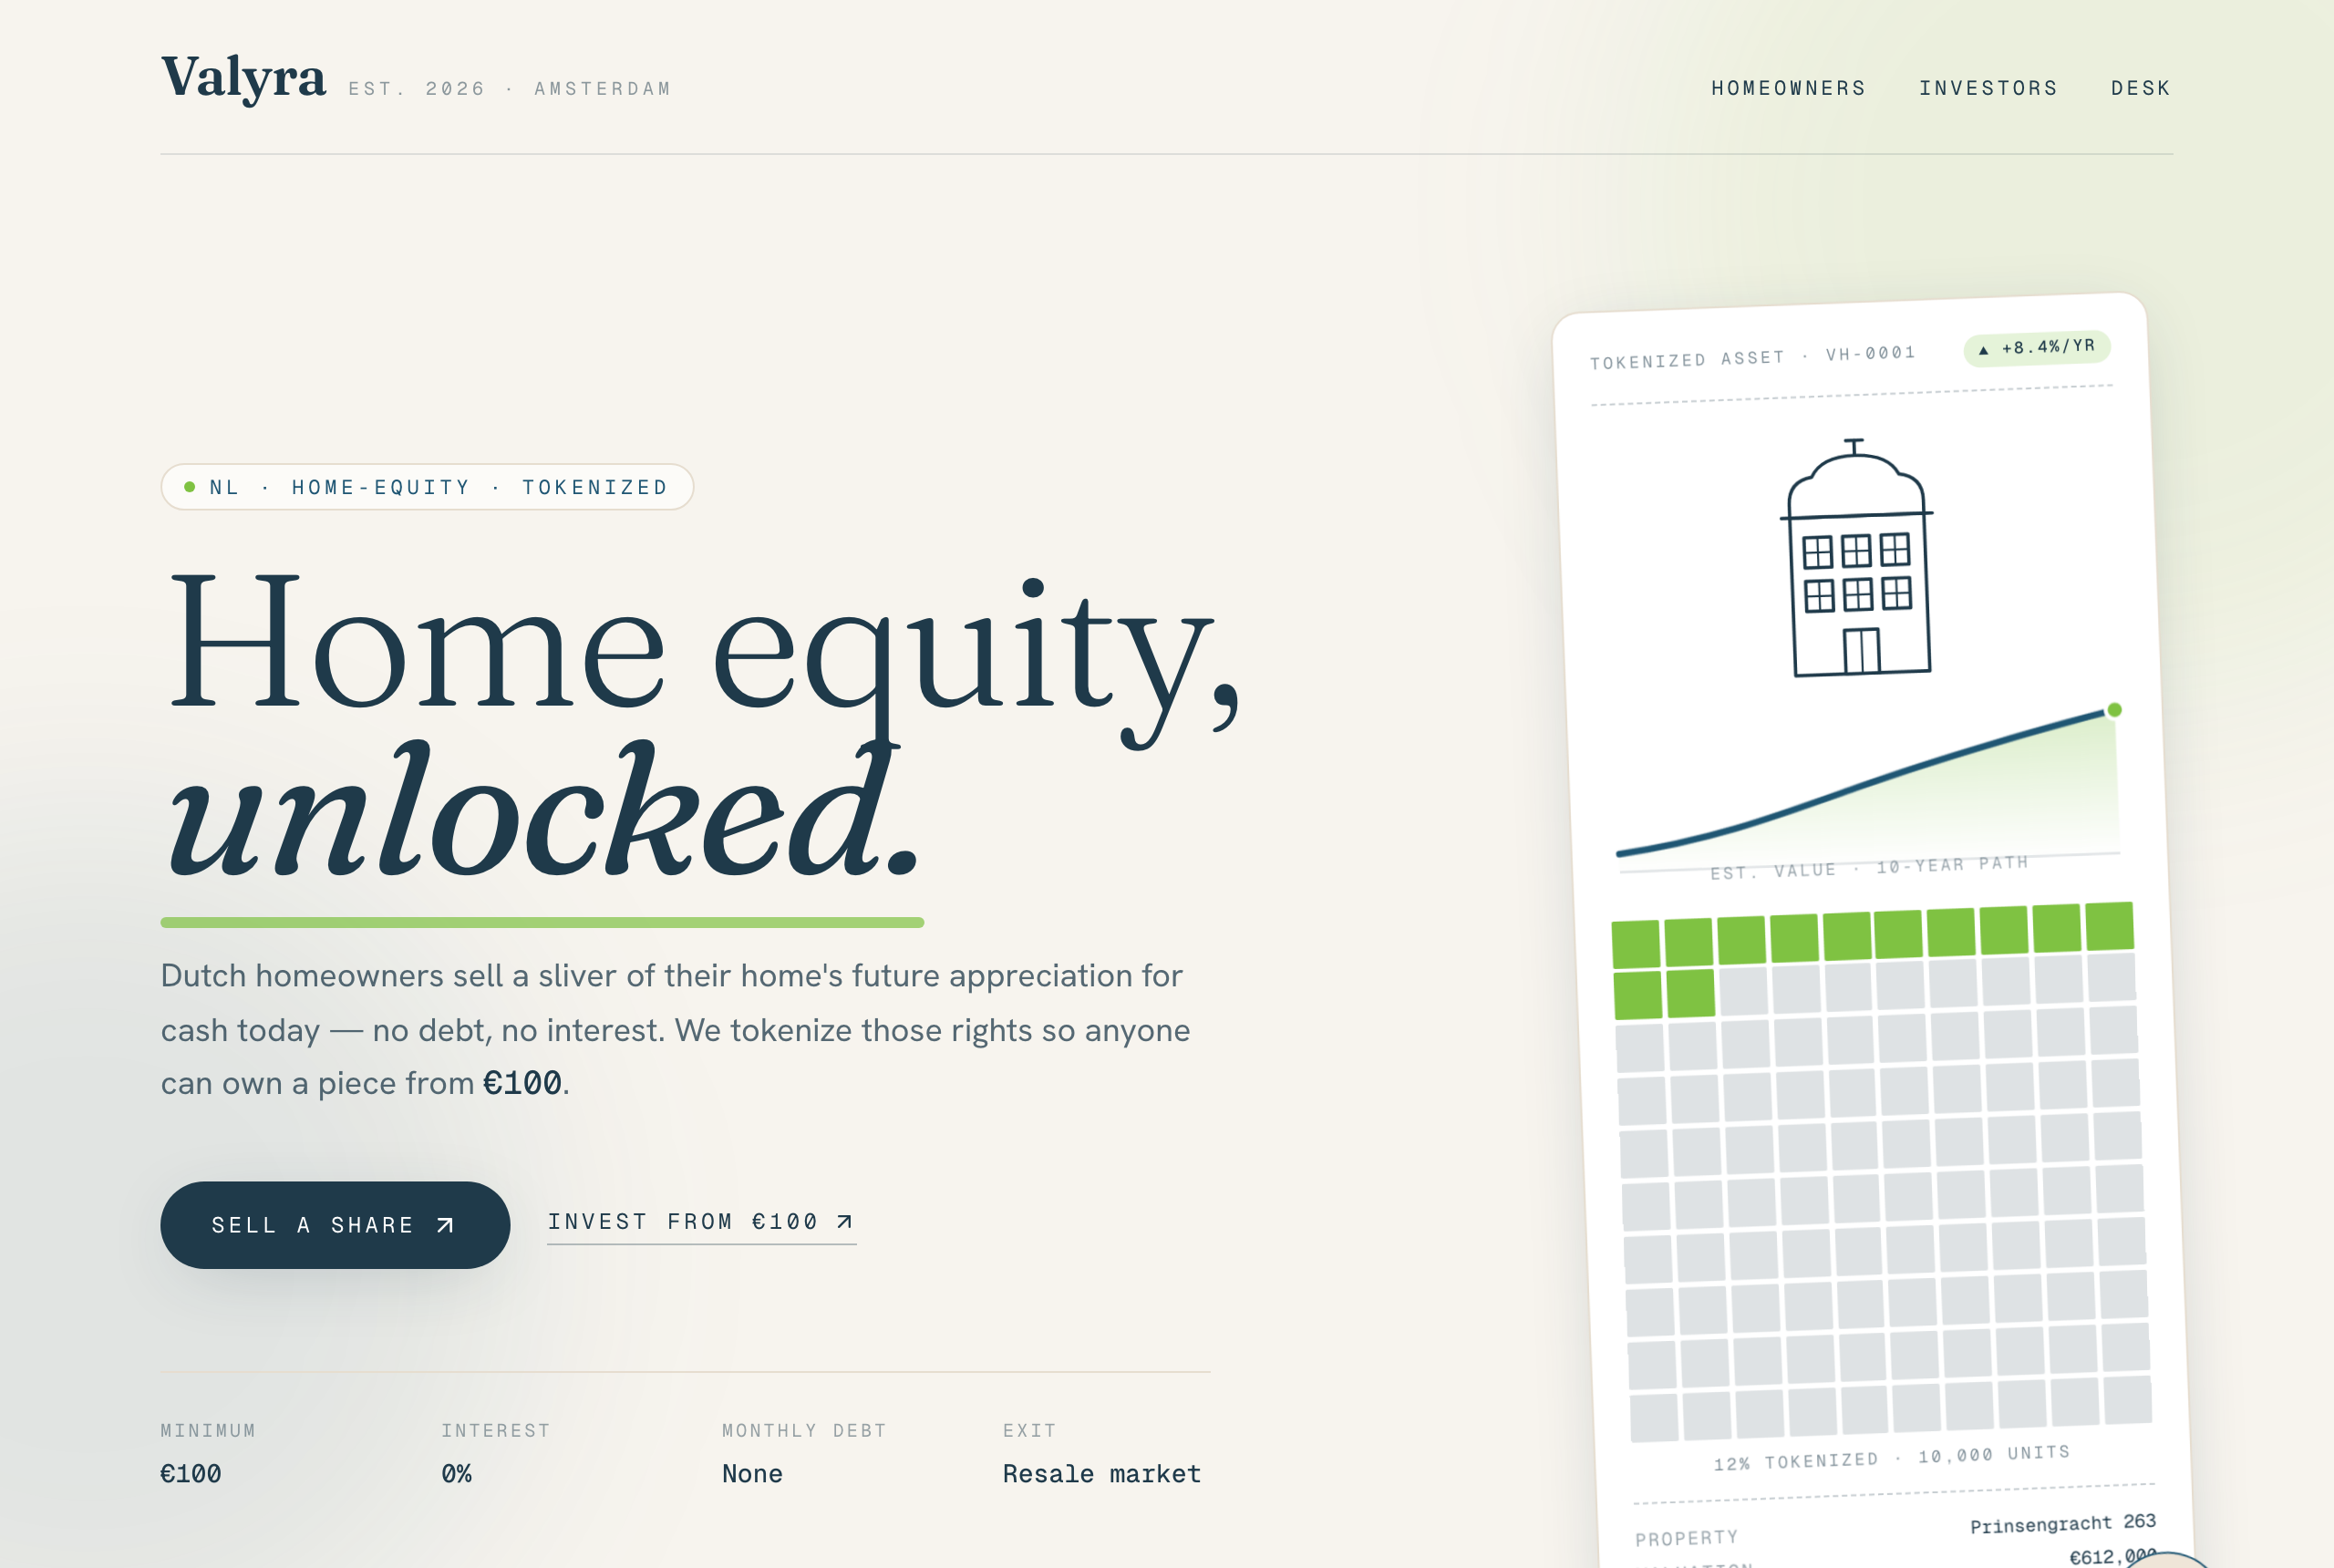
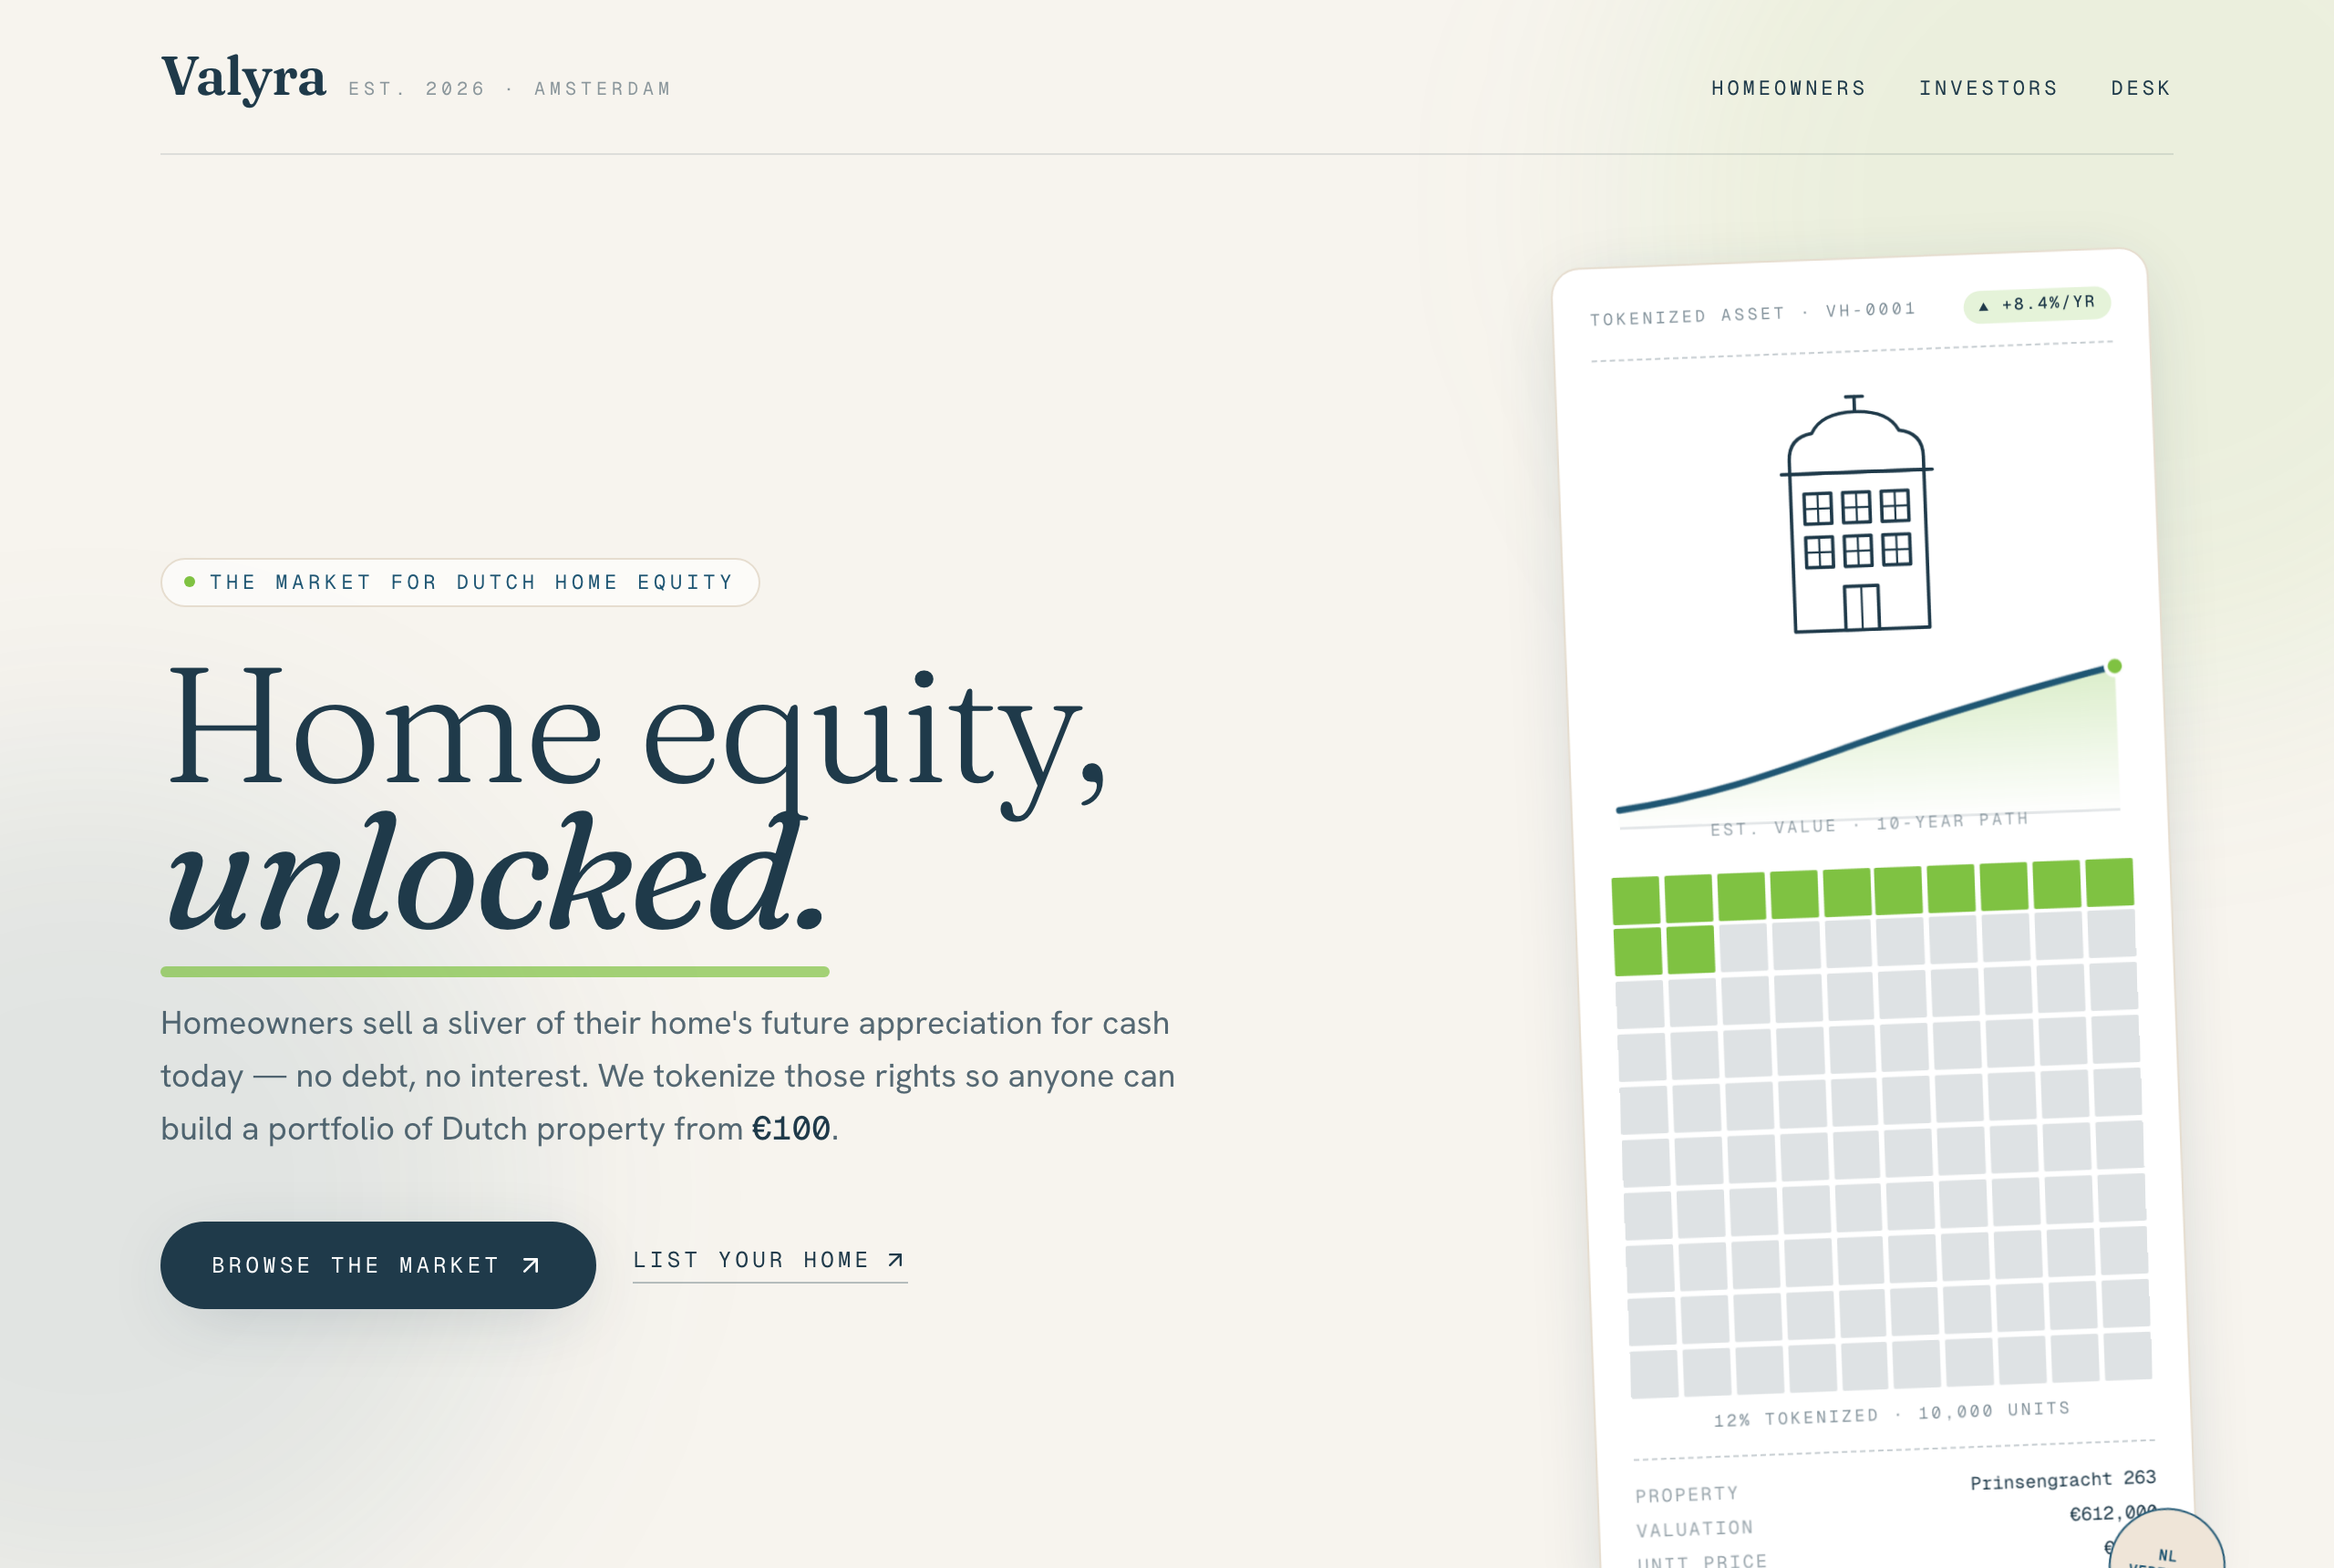
feat(landing): make the front page a real-estate market (brokerage feel)
Fill the dead space with product-true content so a first-time visitor
immediately sees a market they can act in:

- Market at a glance: a metrics strip (homes listed, total market value,
  avg projected appreciation, minimum ticket) derived from seed data.
- The market — featured homes: the real 6 seeded homes as brokerage-style
  listings (city + map pin, appreciation chip, valuation, token price,
  funded bar, "Invest from €100"). Derived from the same seed the app uses,
  so the landing and the marketplace always agree.
- How it works: a genuine 3-step sequence (unlock → tokenize → fund/share).
- Tightened hero spacing; primary CTA now "Browse the market"; kept the
  living asset card, glows, and dark CTA band.

Still a server component (pure seed/market imports, CSS-only motion);
reduced-motion respected; responsive to mobile. README screenshot refreshed.

diff --git a/src/app/page.tsx b/src/app/page.tsx
@@ -1,32 +1,63 @@
 import Link from "next/link";
-import { ArrowUpRight, Home, Coins, LineChart } from "lucide-react";
+import { ArrowUpRight, MapPin, Home, Layers, TrendingUp } from "lucide-react";
+import { seedHomes, seedHoldings, seedMarketHoldings } from "@/db/seed";
+import { simulateAppreciationPct, MIN_INVESTMENT_EUR } from "@/lib/market";
+import { formatEUR, formatEURPrecise } from "@/lib/format";
 
 // Landing page — server component. All motion is CSS (no client JS).
-// Aesthetic: warm Dutch canvas + a living "tokenized asset" card as the
-// signature — a canal house whose value curve draws itself on load and whose
-// ownership grid fills with tokens. Brand palette only (see tailwind.config).
+// Positioned as a real-estate brokerage: the live market of tokenized Dutch
+// homes is brought onto the page. Listings are derived from the same seed data
+// the app uses, so the front page and the marketplace always agree.
+// Brand palette only (see tailwind.config).
 
-const ways = [
+// Sold tokens per home (your holdings + the "market"), for the funded bars.
+const soldByHome = [...seedHoldings, ...seedMarketHoldings].reduce<
+  Record<string, number>
+>((acc, h) => {
+  acc[h.homeId] = (acc[h.homeId] ?? 0) + h.tokens;
+  return acc;
+}, {});
+
+const listings = seedHomes.map((h) => ({
+  id: h.id,
+  address: h.address,
+  city: h.city,
+  valuation: h.valuation,
+  tokenPrice: h.tokenPrice,
+  apprPct: simulateAppreciationPct(h),
+  fundedPct: Math.round(((soldByHome[h.id] ?? 0) / h.tokenCount) * 100),
+}));
+
+const marketValue = seedHomes.reduce((s, h) => s + h.valuation, 0);
+const avgAppr =
+  seedHomes.reduce((s, h) => s + simulateAppreciationPct(h), 0) /
+  seedHomes.length;
+
+const metrics = [
+  { k: "Homes listed", v: String(seedHomes.length) },
+  { k: "Market value", v: `€${(marketValue / 1e6).toFixed(2)}M` },
+  { k: "Avg. projected", v: `+${avgAppr.toFixed(1)}%/yr` },
+  { k: "Minimum ticket", v: formatEUR(MIN_INVESTMENT_EUR) },
+];
+
+const steps = [
   {
-    href: "/homeowner",
+    n: "01",
     icon: Home,
-    title: "Homeowners",
-    desc: "Turn a slice of your home's future value into cash today — no debt, no interest, no monthly payments.",
-    action: "Get an offer",
+    title: "Homeowner unlocks equity",
+    desc: "Apply, get an instant AVM valuation, and sell a slice (5–20%) of future appreciation for cash today — no debt, no monthly payments.",
   },
   {
-    href: "/investor",
-    icon: Coins,
-    title: "Investors",
-    desc: "Own fractional shares of Dutch homes and share in their appreciation. Build a portfolio from €100.",
-    action: "Browse the market",
+    n: "02",
+    icon: Layers,
+    title: "The home is tokenized",
+    desc: "Those appreciation rights become thousands of fractional tokens, each priced from a few euros.",
   },
   {
-    href: "/admin",
-    icon: LineChart,
-    title: "The desk",
-    desc: "The operator's view — capital raised and deployed, token supply, and per-home settlement.",
-    action: "Open the desk",
+    n: "03",
+    icon: TrendingUp,
+    title: "Investors fund & share the upside",
+    desc: "Buy tokens from €100, track value in a portfolio, and exit any time on the resale market.",
   },
 ] as const;
 
@@ -40,7 +71,7 @@ export default function LandingPage() {
       />
       <div
         aria-hidden
-        className="pointer-events-none absolute -left-48 top-[28rem] h-[30rem] w-[30rem] rounded-full bg-valyra-blue/10 blur-3xl"
+        className="pointer-events-none absolute -left-48 top-[26rem] h-[30rem] w-[30rem] rounded-full bg-valyra-blue/10 blur-3xl"
       />
 
       <div className="relative z-10 mx-auto max-w-6xl px-6">
@@ -67,17 +98,17 @@ export default function LandingPage() {
         <div className="hairline anim-draw" />
 
         {/* Hero */}
-        <section className="grid grid-cols-1 items-center gap-12 py-12 lg:grid-cols-12 lg:py-20">
+        <section className="grid grid-cols-1 items-center gap-10 py-10 lg:grid-cols-12 lg:py-14">
           <div className="lg:col-span-7">
             <p
               className="anim-rise inline-flex items-center gap-2 rounded-full border border-valyra-line bg-white/60 px-3 py-1 font-mono text-[11px] uppercase tracking-[0.22em] text-valyra-blue"
               style={{ animationDelay: "0.05s" }}
             >
               <span className="inline-block h-1.5 w-1.5 rounded-full bg-valyra-lime" />
-              NL · Home-equity · Tokenized
+              The market for Dutch home equity
             </p>
             <h1
-              className="display anim-rise mt-6 text-[clamp(3rem,8vw,6.75rem)] font-light leading-[0.9]"
+              className="display anim-rise mt-6 text-[clamp(2.75rem,7vw,6rem)] font-light leading-[0.9]"
               style={{ animationDelay: "0.12s" }}
             >
               Home equity,
@@ -92,44 +123,33 @@ export default function LandingPage() {
               </span>
             </h1>
             <p
-              className="anim-rise mt-8 max-w-xl text-lg leading-relaxed text-valyra-ink/75"
+              className="anim-rise mt-7 max-w-xl text-lg leading-relaxed text-valyra-ink/75"
               style={{ animationDelay: "0.2s" }}
             >
-              Dutch homeowners sell a sliver of their home&apos;s future
-              appreciation for cash today — no debt, no interest. We tokenize
-              those rights so anyone can own a piece from{" "}
+              Homeowners sell a sliver of their home&apos;s future appreciation
+              for cash today — no debt, no interest. We tokenize those rights so
+              anyone can build a portfolio of Dutch property from{" "}
               <span className="font-mono font-medium text-valyra-ink">€100</span>.
             </p>
             <div
-              className="anim-rise mt-10 flex flex-wrap items-center gap-5"
+              className="anim-rise mt-9 flex flex-wrap items-center gap-5"
               style={{ animationDelay: "0.28s" }}
             >
               <Link
-                href="/homeowner"
+                href="/investor"
                 className="group inline-flex items-center gap-2 rounded-full bg-valyra-ink px-7 py-4 font-mono text-xs uppercase tracking-[0.18em] text-white shadow-pop transition-all hover:-translate-y-0.5 hover:bg-valyra-blue focus-visible:outline-none focus-visible:ring-2 focus-visible:ring-valyra-blue focus-visible:ring-offset-2 focus-visible:ring-offset-valyra-canvas"
               >
-                Sell a share
+                Browse the market
                 <ArrowUpRight size={16} className="transition-transform group-hover:-translate-y-0.5 group-hover:translate-x-0.5" />
               </Link>
               <Link
-                href="/investor"
+                href="/homeowner"
                 className="group inline-flex items-center gap-1.5 border-b border-valyra-ink/30 pb-1 font-mono text-xs uppercase tracking-[0.18em] transition-colors hover:border-valyra-blue hover:text-valyra-blue focus-visible:outline-none focus-visible:text-valyra-blue"
               >
-                Invest from €100
+                List your home
                 <ArrowUpRight size={14} className="transition-transform group-hover:-translate-y-0.5 group-hover:translate-x-0.5" />
               </Link>
             </div>
-
-            {/* Trust stats */}
-            <dl
-              className="anim-rise mt-14 grid max-w-xl grid-cols-2 gap-x-10 gap-y-6 border-t border-valyra-line pt-6 sm:grid-cols-4"
-              style={{ animationDelay: "0.36s" }}
-            >
-              <Stat k="Minimum" v="€100" />
-              <Stat k="Interest" v="0%" />
-              <Stat k="Monthly debt" v="None" />
-              <Stat k="Exit" v="Resale market" />
-            </dl>
           </div>
 
           {/* Signature: living tokenized-asset card */}
@@ -138,30 +158,72 @@ export default function LandingPage() {
           </div>
         </section>
 
-        {/* Three ways in */}
-        <section className="pt-4">
-          <div className="flex items-center justify-between font-mono text-[11px] uppercase tracking-[0.2em] text-valyra-ink/45">
-            <span>One platform</span>
-            <span>Three ways in</span>
+        {/* Market at a glance */}
+        <section
+          className="anim-rise grid grid-cols-2 gap-px overflow-hidden rounded-2xl border border-valyra-line bg-valyra-line sm:grid-cols-4"
+          style={{ animationDelay: "0.4s" }}
+          aria-label="Market at a glance"
+        >
+          {metrics.map((m) => (
+            <div key={m.k} className="bg-valyra-canvas px-6 py-5">
+              <p className="font-mono text-[10px] uppercase tracking-[0.16em] text-valyra-ink/45">
+                {m.k}
+              </p>
+              <p className="display mt-1 text-2xl text-valyra-ink sm:text-3xl">{m.v}</p>
+            </div>
+          ))}
+        </section>
+
+        {/* The market — live listings */}
+        <section className="mt-16">
+          <div className="flex items-end justify-between gap-4">
+            <div>
+              <p className="font-mono text-[11px] uppercase tracking-[0.2em] text-valyra-blue">
+                The market · Open for investment
+              </p>
+              <h2 className="display mt-2 text-3xl sm:text-4xl">Featured homes</h2>
+            </div>
+            <Link
+              href="/investor"
+              className="group hidden shrink-0 items-center gap-1.5 font-mono text-[11px] uppercase tracking-[0.18em] text-valyra-blue hover:text-valyra-ink sm:inline-flex"
+            >
+              Browse all
+              <ArrowUpRight size={14} className="transition-transform group-hover:-translate-y-0.5 group-hover:translate-x-0.5" />
+            </Link>
           </div>
-          <div className="mt-5 grid grid-cols-1 gap-4 md:grid-cols-3">
-            {ways.map((w, i) => (
-              <Link
-                key={w.href}
-                href={w.href}
-                className="group anim-rise relative flex flex-col rounded-2xl border border-valyra-line bg-white/70 p-7 transition-all hover:-translate-y-1 hover:border-valyra-blue/40 hover:bg-white hover:shadow-pop focus-visible:outline-none focus-visible:ring-2 focus-visible:ring-valyra-blue"
-                style={{ animationDelay: `${0.45 + i * 0.08}s` }}
-              >
-                <span className="grid h-11 w-11 place-items-center rounded-xl bg-valyra-paper/70 text-valyra-blue transition-colors group-hover:bg-valyra-lime/25">
-                  <w.icon size={20} strokeWidth={1.75} />
-                </span>
-                <h3 className="display mt-5 text-2xl">{w.title}</h3>
-                <p className="mt-2 flex-1 text-sm leading-relaxed text-valyra-ink/70">{w.desc}</p>
-                <span className="mt-6 inline-flex items-center gap-1.5 font-mono text-[11px] uppercase tracking-[0.18em] text-valyra-blue">
-                  {w.action}
-                  <ArrowUpRight size={14} className="transition-transform group-hover:-translate-y-0.5 group-hover:translate-x-0.5" />
-                </span>
-              </Link>
+
+          <div className="mt-6 grid grid-cols-1 gap-4 sm:grid-cols-2 lg:grid-cols-3">
+            {listings.map((l, i) => (
+              <ListingCard key={l.id} listing={l} delay={0.1 + i * 0.06} />
+            ))}
+          </div>
+
+          <Link
+            href="/investor"
+            className="group mt-6 inline-flex items-center gap-1.5 font-mono text-[11px] uppercase tracking-[0.18em] text-valyra-blue hover:text-valyra-ink sm:hidden"
+          >
+            Browse the full market
+            <ArrowUpRight size={14} />
+          </Link>
+        </section>
+
+        {/* How it works */}
+        <section className="mt-16">
+          <p className="font-mono text-[11px] uppercase tracking-[0.2em] text-valyra-ink/45">
+            How it works
+          </p>
+          <div className="mt-5 grid grid-cols-1 gap-px overflow-hidden rounded-2xl border border-valyra-line bg-valyra-line md:grid-cols-3">
+            {steps.map((s) => (
+              <div key={s.n} className="flex flex-col bg-valyra-canvas p-7">
+                <div className="flex items-center justify-between">
+                  <span className="grid h-11 w-11 place-items-center rounded-xl bg-valyra-paper/70 text-valyra-blue">
+                    <s.icon size={20} strokeWidth={1.75} />
+                  </span>
+                  <span className="font-mono text-xs text-valyra-ink/35">{s.n}</span>
+                </div>
+                <h3 className="display mt-5 text-xl">{s.title}</h3>
+                <p className="mt-2 text-sm leading-relaxed text-valyra-ink/70">{s.desc}</p>
+              </div>
             ))}
           </div>
         </section>
@@ -182,7 +244,7 @@ export default function LandingPage() {
                 <br className="hidden sm:block" /> housing market — from €100.
               </h2>
             </div>
-            <div className="flex lg:col-span-4 lg:justify-end">
+            <div className="flex flex-col gap-3 lg:col-span-4 lg:items-end">
               <Link
                 href="/investor"
                 className="group inline-flex items-center gap-2 rounded-full bg-valyra-lime px-7 py-4 font-mono text-xs uppercase tracking-[0.18em] text-valyra-ink transition-all hover:-translate-y-0.5 focus-visible:outline-none focus-visible:ring-2 focus-visible:ring-valyra-lime focus-visible:ring-offset-2 focus-visible:ring-offset-valyra-ink"
@@ -190,12 +252,18 @@ export default function LandingPage() {
                 Browse the market
                 <ArrowUpRight size={16} className="transition-transform group-hover:-translate-y-0.5 group-hover:translate-x-0.5" />
               </Link>
+              <Link
+                href="/admin"
+                className="font-mono text-[11px] uppercase tracking-[0.18em] text-valyra-canvas/60 transition-colors hover:text-valyra-lime focus-visible:outline-none focus-visible:text-valyra-lime"
+              >
+                Operator desk →
+              </Link>
             </div>
           </div>
         </section>
 
         {/* Footer */}
-        <footer className="mt-16 flex flex-col items-start justify-between gap-2 border-t border-valyra-line py-8 font-mono text-[11px] uppercase tracking-[0.16em] text-valyra-ink/50 sm:flex-row sm:items-center">
+        <footer className="mt-14 flex flex-col items-start justify-between gap-2 border-t border-valyra-line py-8 font-mono text-[11px] uppercase tracking-[0.16em] text-valyra-ink/50 sm:flex-row sm:items-center">
           <span>© 2026 Valyra — MVP demo</span>
           <span>Blockchain &amp; AVM valuation simulated</span>
         </footer>
@@ -204,12 +272,56 @@ export default function LandingPage() {
   );
 }
 
-function Stat({ k, v }: { k: string; v: string }) {
+type Listing = {
+  id: string;
+  address: string;
+  city: string;
+  valuation: number;
+  tokenPrice: number;
+  apprPct: number;
+  fundedPct: number;
+};
+
+// A brokerage-style listing for one tokenized home, derived from seed data.
+function ListingCard({ listing, delay }: { listing: Listing; delay: number }) {
   return (
-    <div className="flex flex-col gap-1.5">
-      <dt className="font-mono text-[10px] uppercase tracking-[0.16em] text-valyra-ink/45">{k}</dt>
-      <dd className="font-mono text-sm font-medium text-valyra-ink">{v}</dd>
-    </div>
+    <Link
+      href="/investor"
+      className="group anim-rise flex flex-col rounded-2xl border border-valyra-line bg-white/80 p-5 transition-all hover:-translate-y-1 hover:border-valyra-blue/40 hover:bg-white hover:shadow-pop focus-visible:outline-none focus-visible:ring-2 focus-visible:ring-valyra-blue"
+      style={{ animationDelay: `${delay}s` }}
+    >
+      <div className="flex items-start justify-between gap-3">
+        <div>
+          <p className="inline-flex items-center gap-1 font-mono text-[10px] uppercase tracking-[0.16em] text-valyra-ink/45">
+            <MapPin size={11} /> {listing.city}
+          </p>
+          <h3 className="display mt-1 text-xl leading-tight">{listing.address}</h3>
+        </div>
+        <span className="inline-flex shrink-0 items-center gap-1 rounded-full bg-valyra-lime/20 px-2 py-0.5 font-mono text-[10px] font-medium uppercase tracking-[0.1em] text-valyra-ink">
+          ▲ +{listing.apprPct}%/yr
+        </span>
+      </div>
+
+      <dl className="mt-4 grid grid-cols-2 gap-y-1 text-sm">
+        <dt className="text-valyra-ink/55">Valuation</dt>
+        <dd className="text-right font-medium tabular-nums">{formatEUR(listing.valuation)}</dd>
+        <dt className="text-valyra-ink/55">Token price</dt>
+        <dd className="text-right font-medium tabular-nums">{formatEURPrecise(listing.tokenPrice)}</dd>
+      </dl>
+
+      <div className="mt-4">
+        <div className="h-1.5 w-full overflow-hidden rounded-full bg-valyra-ink/10">
+          <div className="h-full rounded-full bg-valyra-blue" style={{ width: `${listing.fundedPct}%` }} />
+        </div>
+        <div className="mt-2 flex items-center justify-between font-mono text-[10px] uppercase tracking-[0.12em] text-valyra-ink/50">
+          <span>{listing.fundedPct}% funded</span>
+          <span className="inline-flex items-center gap-1 text-valyra-blue transition-colors group-hover:text-valyra-ink">
+            Invest from €100
+            <ArrowUpRight size={12} className="transition-transform group-hover:-translate-y-0.5 group-hover:translate-x-0.5" />
+          </span>
+        </div>
+      </div>
+    </Link>
   );
 }
 
@@ -278,7 +390,6 @@ function AssetCard() {
 
 // Climbing value curve with a soft area fill — the "appreciation" thesis.
 function AppreciationCurve() {
-  // A gently rising path, normalized to pathLength 1 for the draw animation.
   const line = "M4 56 C 40 52, 64 44, 96 34 S 168 14, 196 8";
   const area = `${line} L196 64 L4 64 Z`;
   return (
@@ -289,7 +400,6 @@ function AppreciationCurve() {
           <stop offset="100%" stopColor="#7fc242" stopOpacity="0" />
         </linearGradient>
       </defs>
-      {/* baseline */}
       <line x1="4" y1="63" x2="196" y2="63" stroke="#1f3a4a" strokeOpacity="0.12" strokeWidth="1" />
       <path d={area} fill="url(#valyra-area)" className="anim-area" />
       <path
@@ -327,18 +437,14 @@ function CanalHouse() {
       strokeLinejoin="round"
       strokeLinecap="round"
     >
-      {/* body + bell gable */}
       <rect x="22" y="54" width="80" height="94" fill="#ffffff" />
       <path
         d="M22 54 V46 Q22 32 36 30 Q42 18 62 18 Q82 18 88 30 Q102 32 102 46 V54 Z"
         fill="#ffffff"
       />
-      {/* hoisting beam at the apex */}
       <line x1="62" y1="18" x2="62" y2="9" />
       <path d="M57 9 h10" />
-      {/* cornice */}
       <line x1="17" y1="54" x2="107" y2="54" />
-      {/* windows: two rows of three, with muntins */}
       {[66, 92].map((y) =>
         [30, 53, 76].map((x) => (
           <g key={`${x}-${y}`}>
@@ -348,7 +454,6 @@ function CanalHouse() {
           </g>
         )),
       )}
-      {/* door */}
       <rect x="52" y="122" width="20" height="26" fill="#ffffff" />
       <line x1="62" y1="122" x2="62" y2="148" strokeWidth="1.2" />
     </svg>